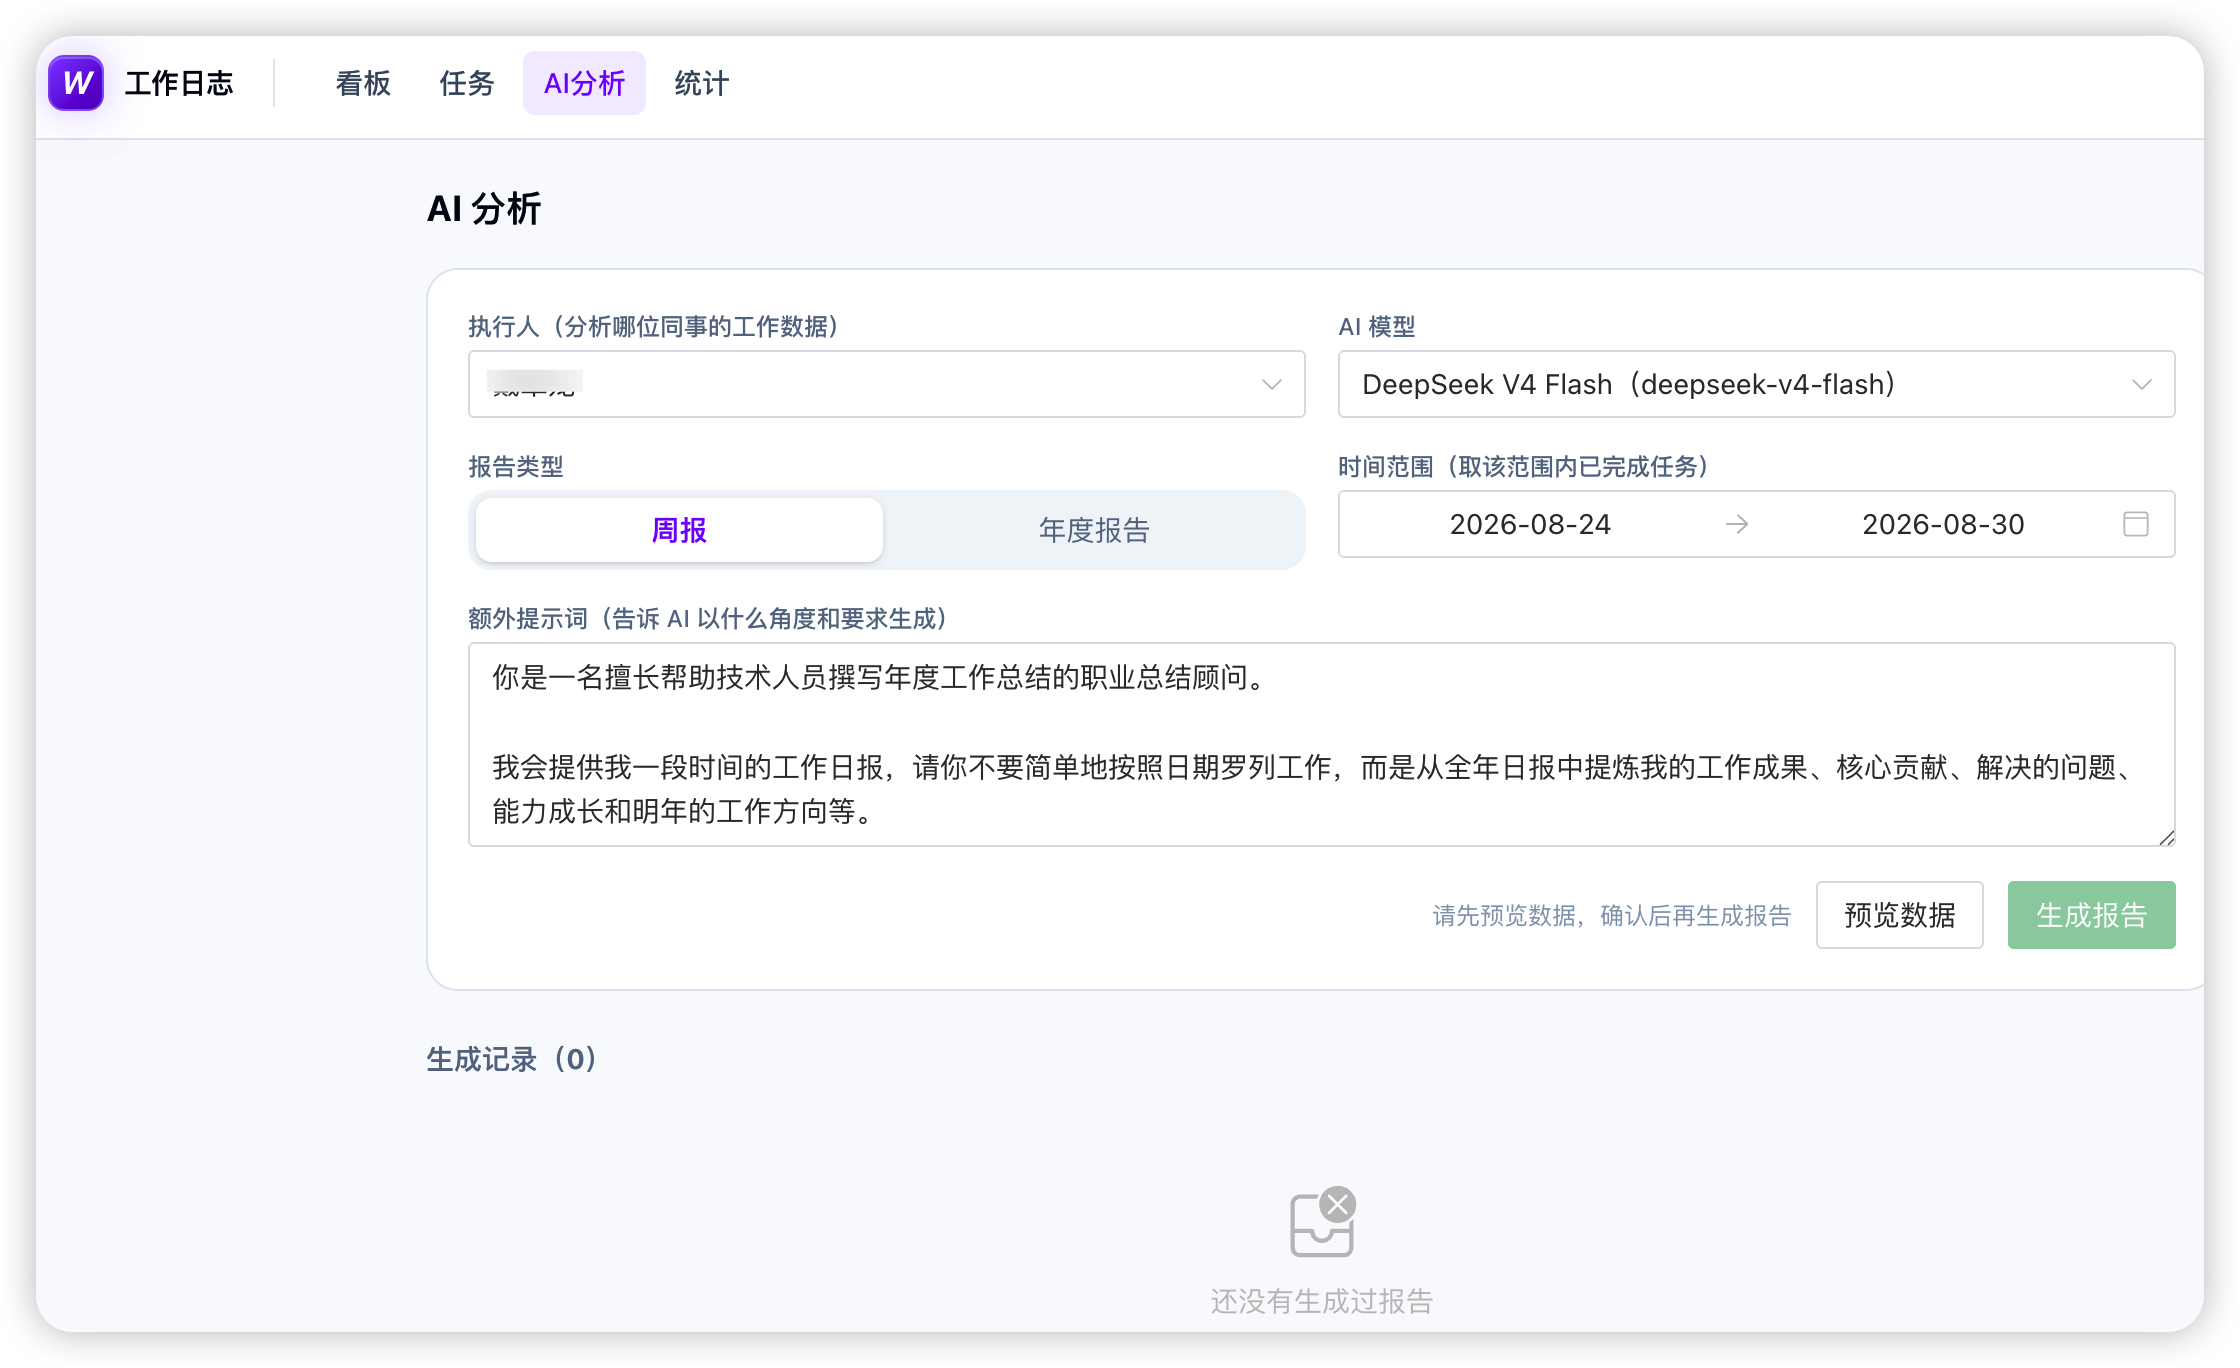
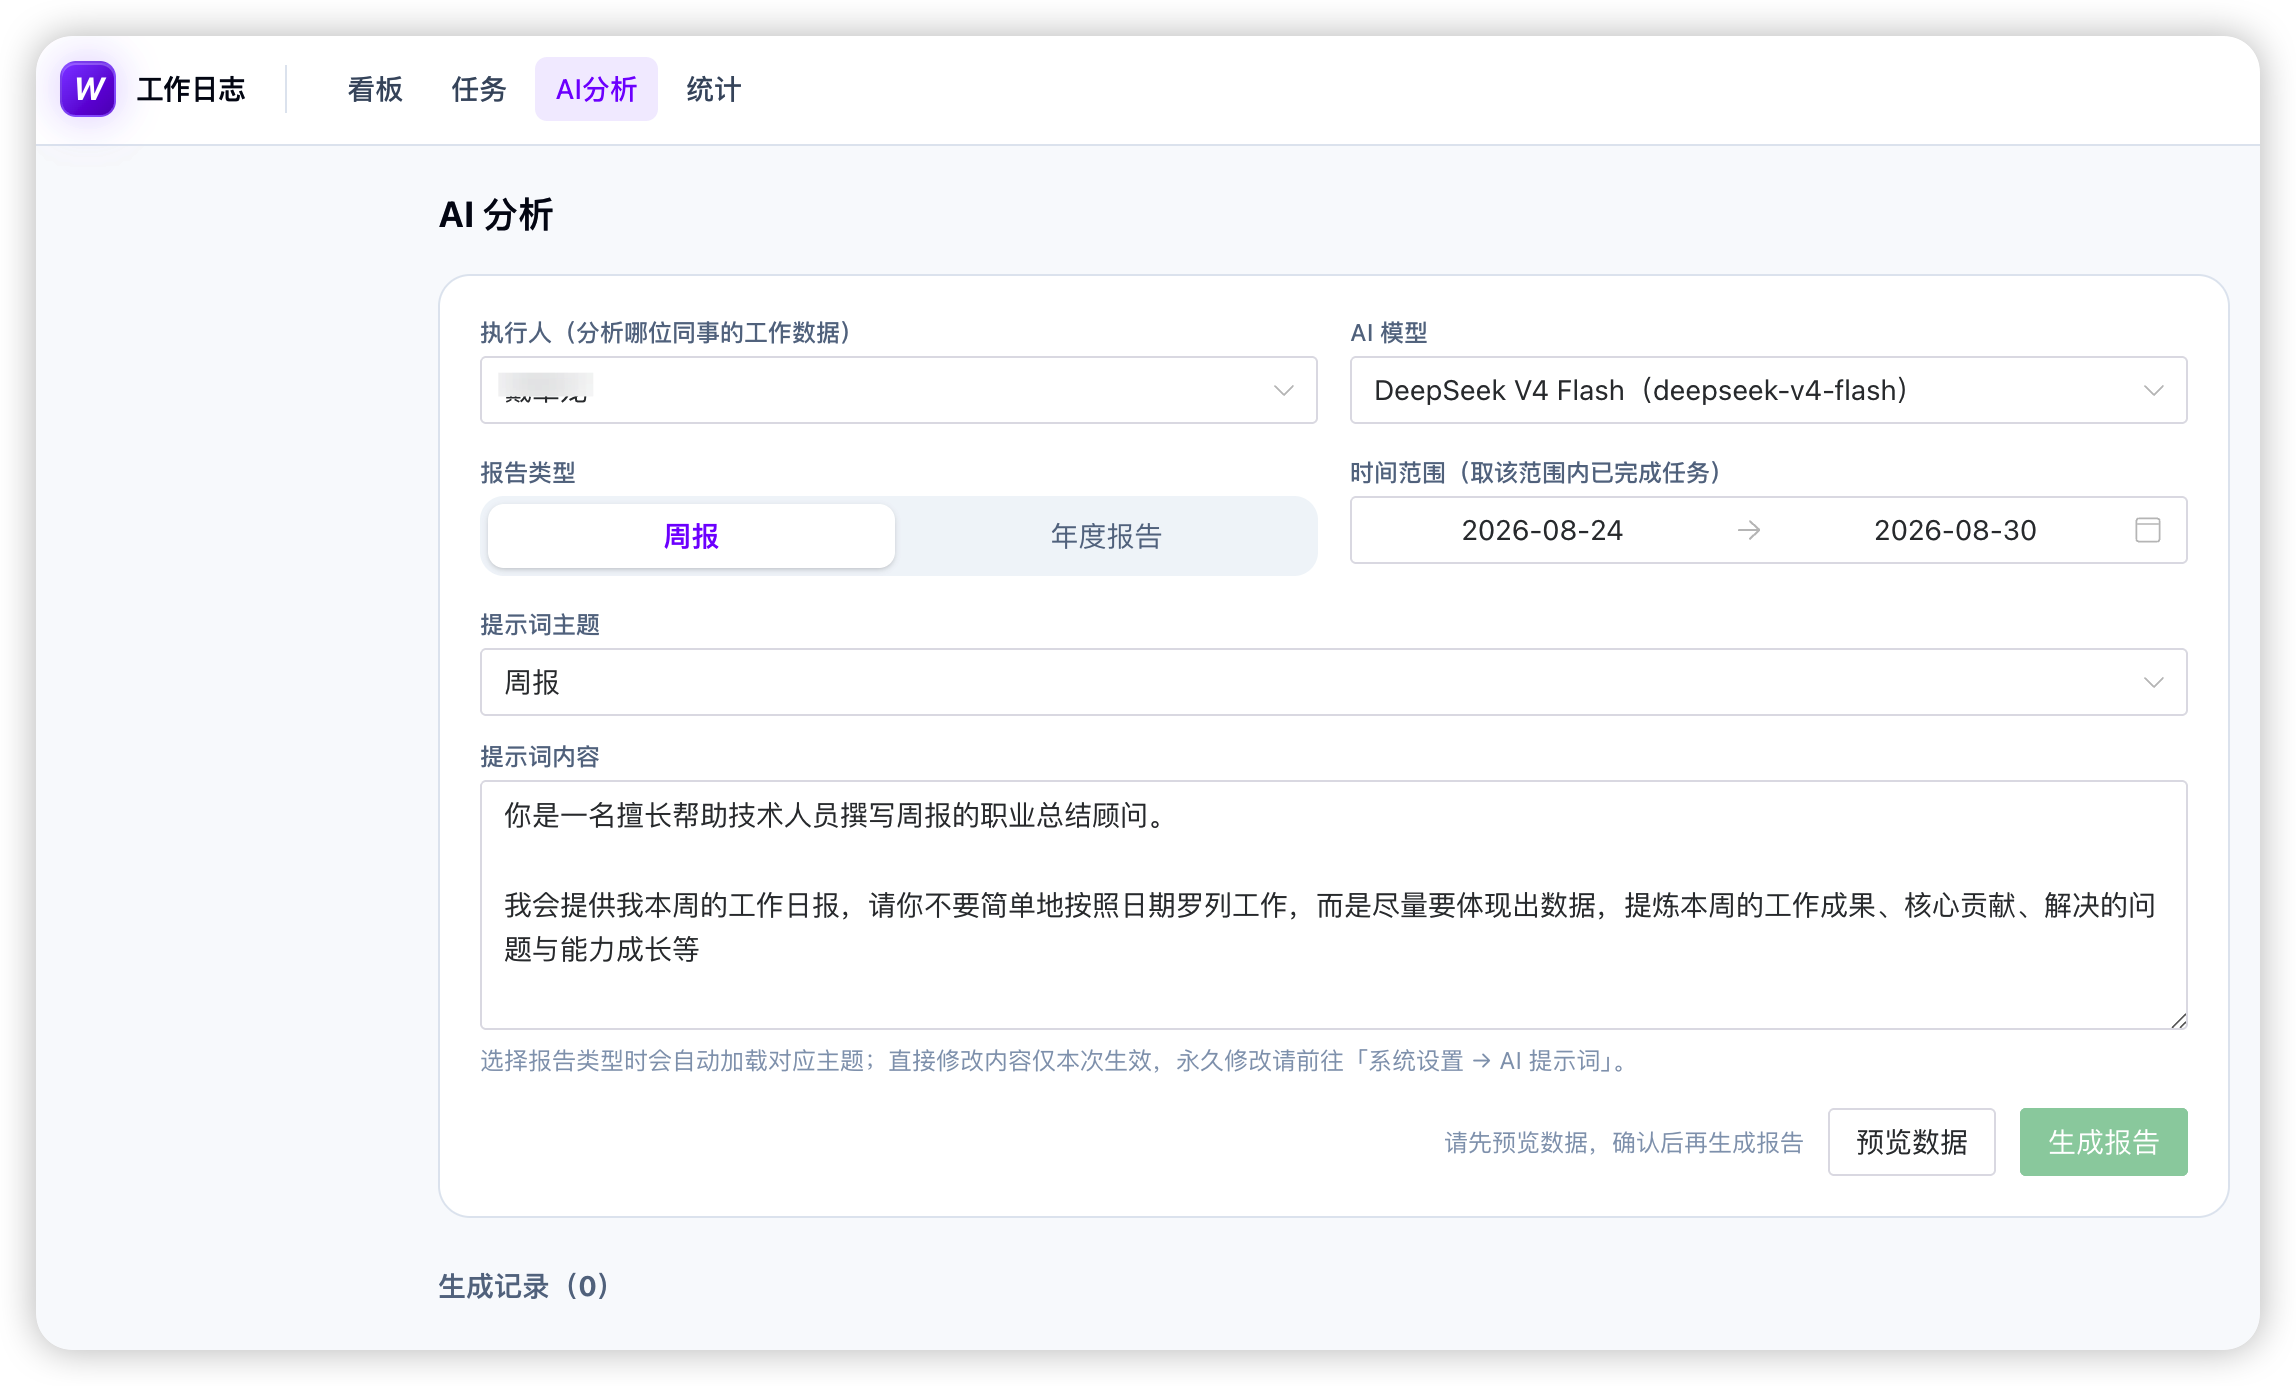
chore: 文案调整

diff --git a/README.md b/README.md
@@ -1,6 +1,6 @@
 # 工作日志
 
-团队协作的工作日志平台：日报 / 周报 / 月报、计划管理与到期提醒、工作数据统计分析。
+面向团队协作的工作记录与任务管理平台，支持任务看板、计划提醒、评论协作、数据统计及 AI 周报/年度报告生成。
 
 ## 界面预览
 
